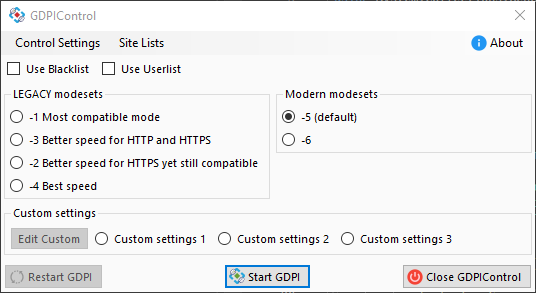
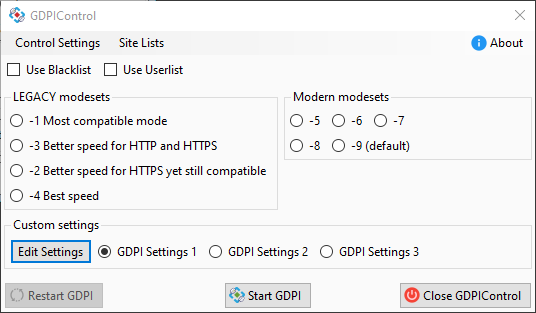
chore: update README

diff --git a/README.md b/README.md
@@ -1,24 +1,26 @@
-# GDPIControl - GoodbyeDPI Tray Control
+# GDPIControl - GUI for [GoodbyeDPI](https://github.com/ValdikSS/GoodbyeDPI/)
 
-Small tray application for controlling GoodbyeDPI
+Small GUI application for controlling GoodbyeDPI
 
 ## Features
 
-- Switching GoodbyeDPI on/off from tray
-- Selecting custom options
-- Updating blacklist
-- Autostart at logon
+- Enable/disable Goodbye DPI from the tray
+- Custom settings (up to 3)
+- Updating the blacklist
+- Autorun at login
 
 ## Screenshots
 
-Tray window  
+Tray menu  
 ![tray](./assets/tray.png)
 
 Main window  
 ![modesets](./assets/modesets.png)
-![custom](./assets/custom.png)
+
+Custom settings  
+![settings](./assets/settings.png)
 
 ## Links
 
-- **[WinDivert](https://github.com/basil00/Divert)** by @basil00
 - **[GoodbyeDPI](https://github.com/ValdikSS/GoodbyeDPI/)** by @ValdikSS
+- **[WinDivert](https://github.com/basil00/Divert)** by @basil00
